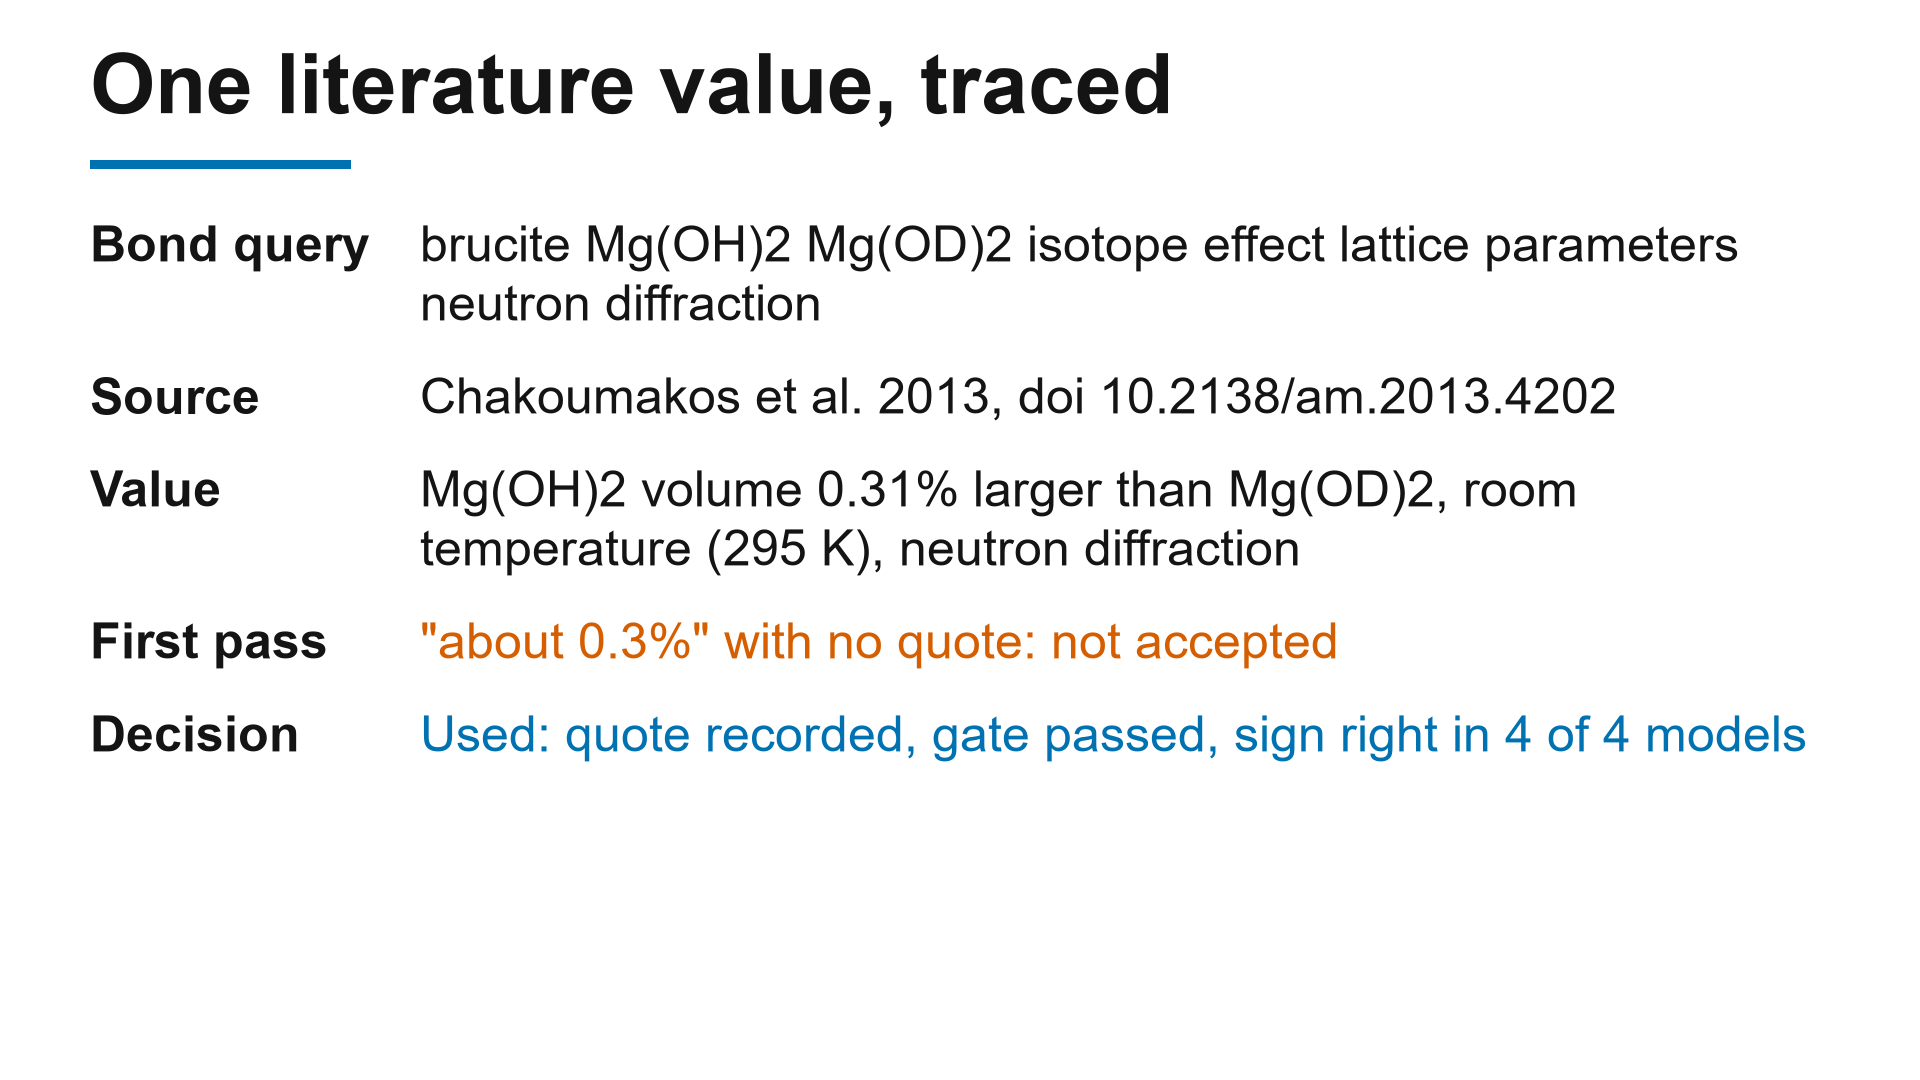
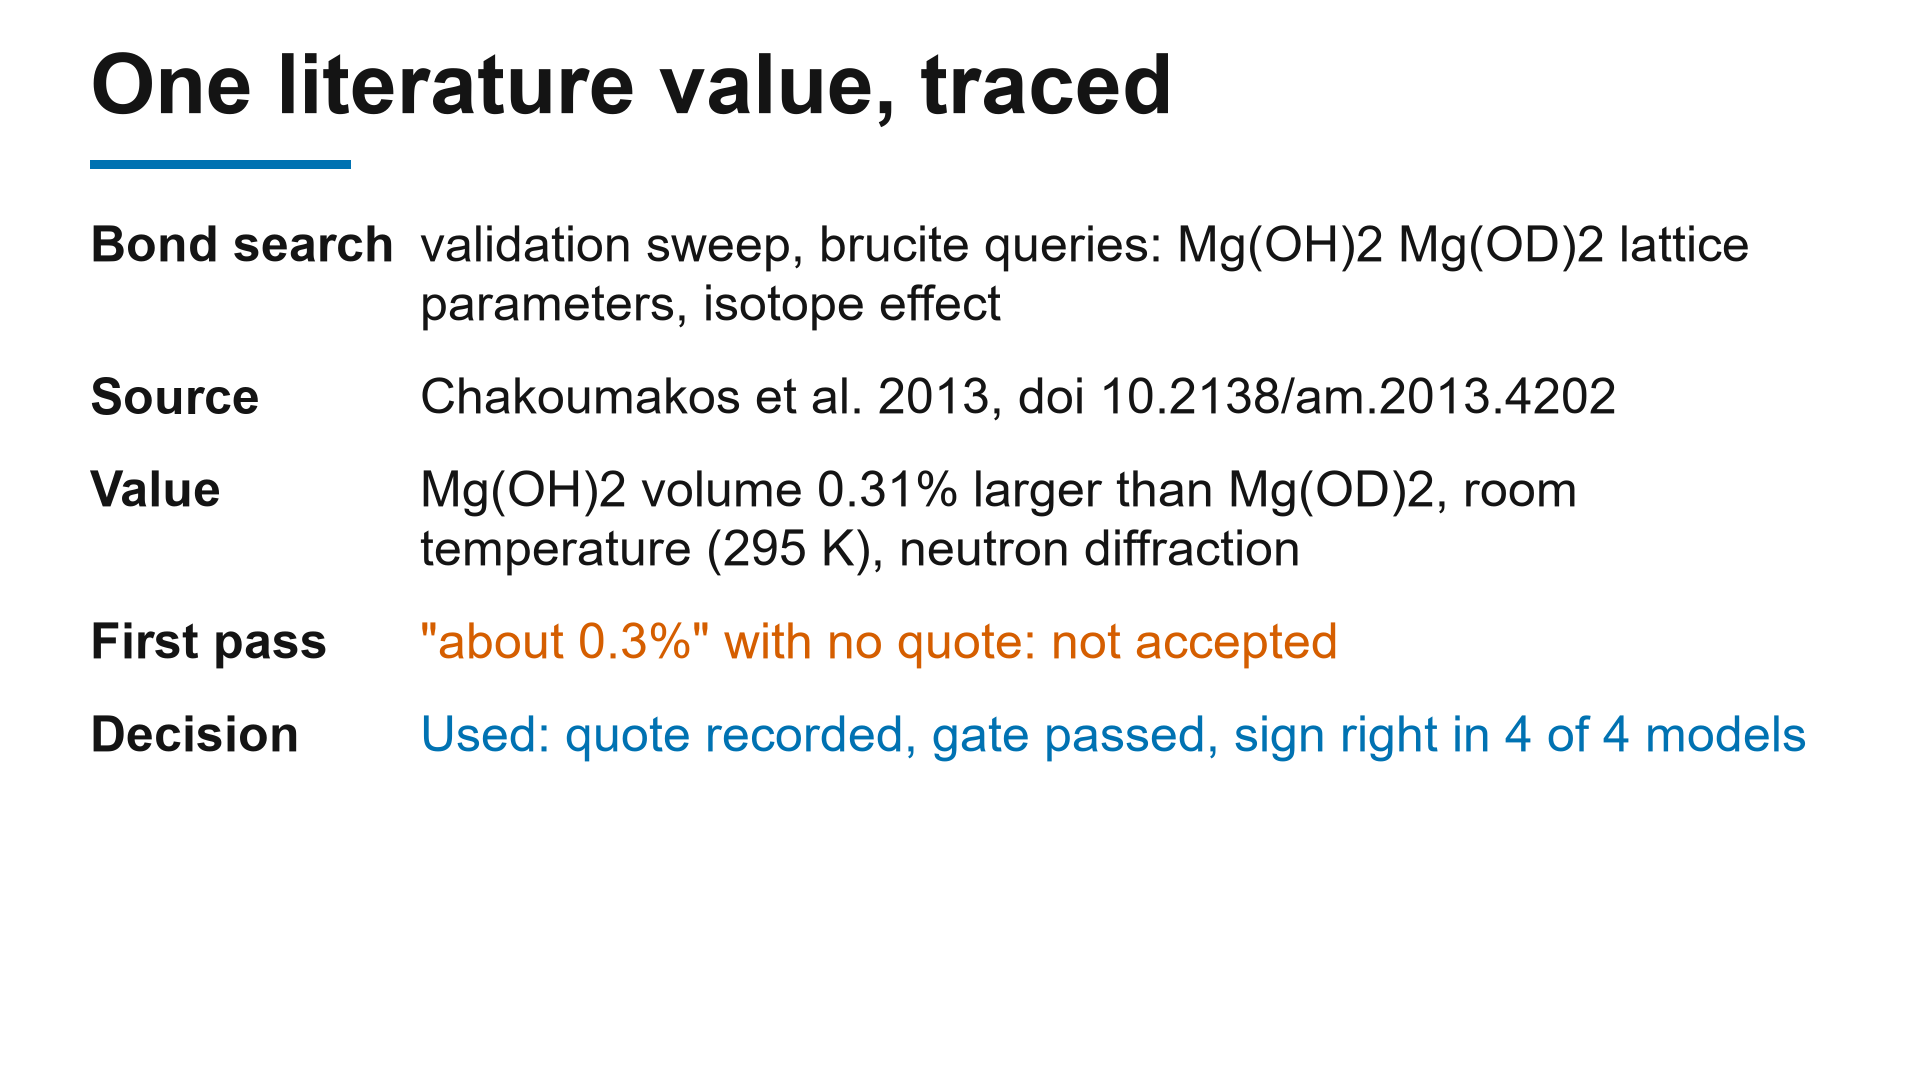
video kit: Bond trace slide names the validation sweep's brucite queries (the log does not tie one query to the source)

Changed region(s): [[0.125, 0.1833, 0.9062, 0.3056]]

diff --git a/docs/story/video/make_slides_d12.py b/docs/story/video/make_slides_d12.py
@@ -143,8 +143,8 @@ def slide_07c():
     fig, ax = canvas()
     title(ax, "One literature value, traced")
     rows = [
-        ("Bond query", "brucite Mg(OH)2 Mg(OD)2 isotope effect lattice parameters "
-                       "neutron diffraction", INK),
+        ("Bond search", "validation sweep, brucite queries: Mg(OH)2 Mg(OD)2 "
+                       "lattice parameters, isotope effect", INK),
         ("Source", "Chakoumakos et al. 2013, doi 10.2138/am.2013.4202", INK),
         ("Value", "Mg(OH)2 volume 0.31% larger than Mg(OD)2, room temperature "
                   "(295 K), neutron diffraction", INK),
